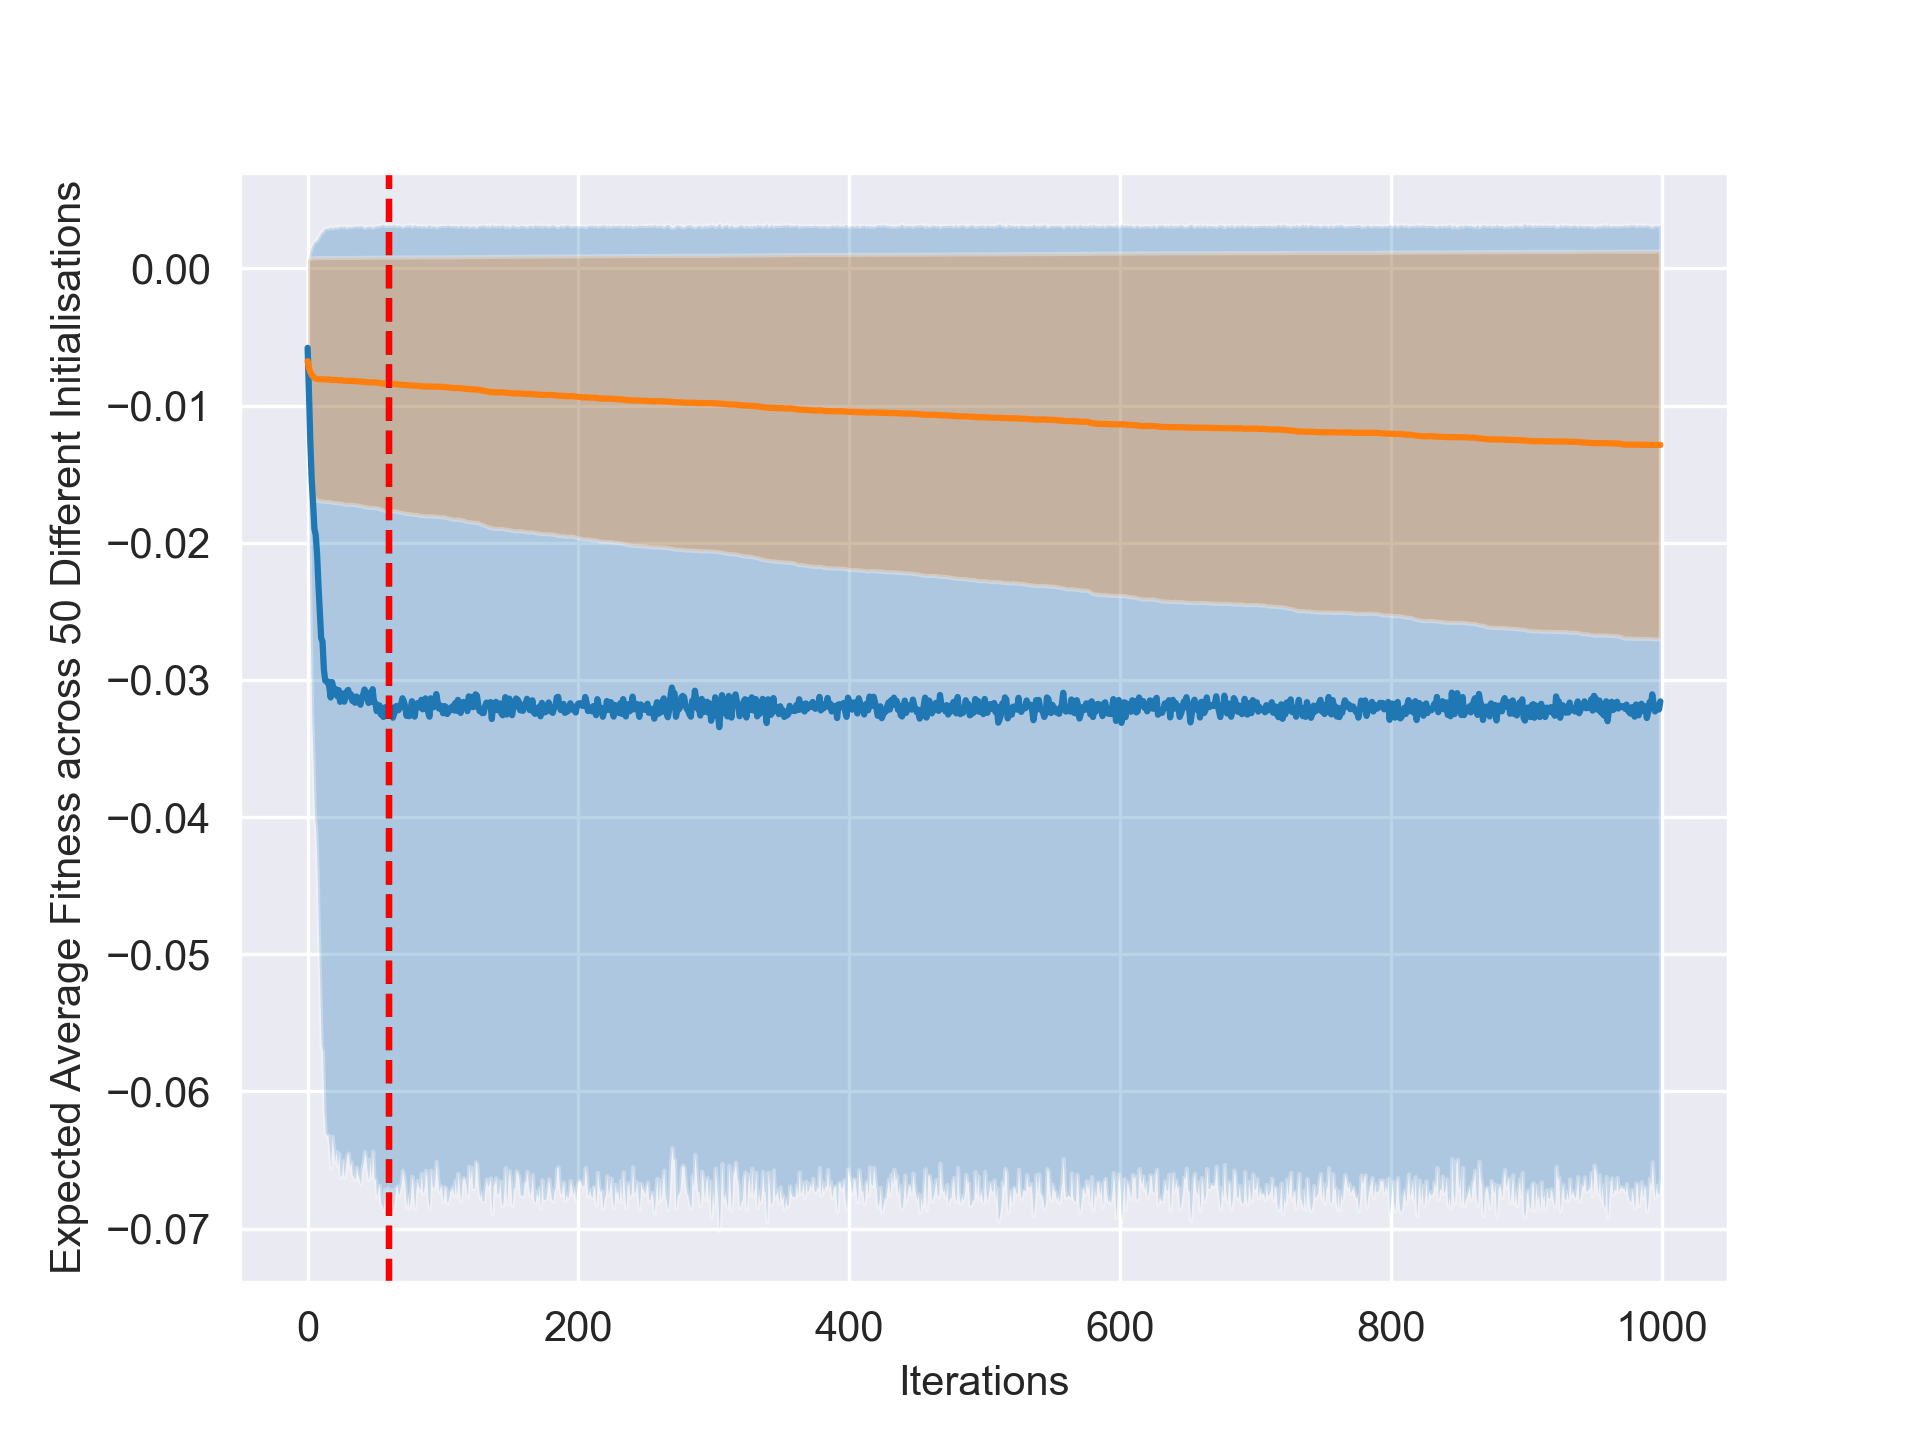
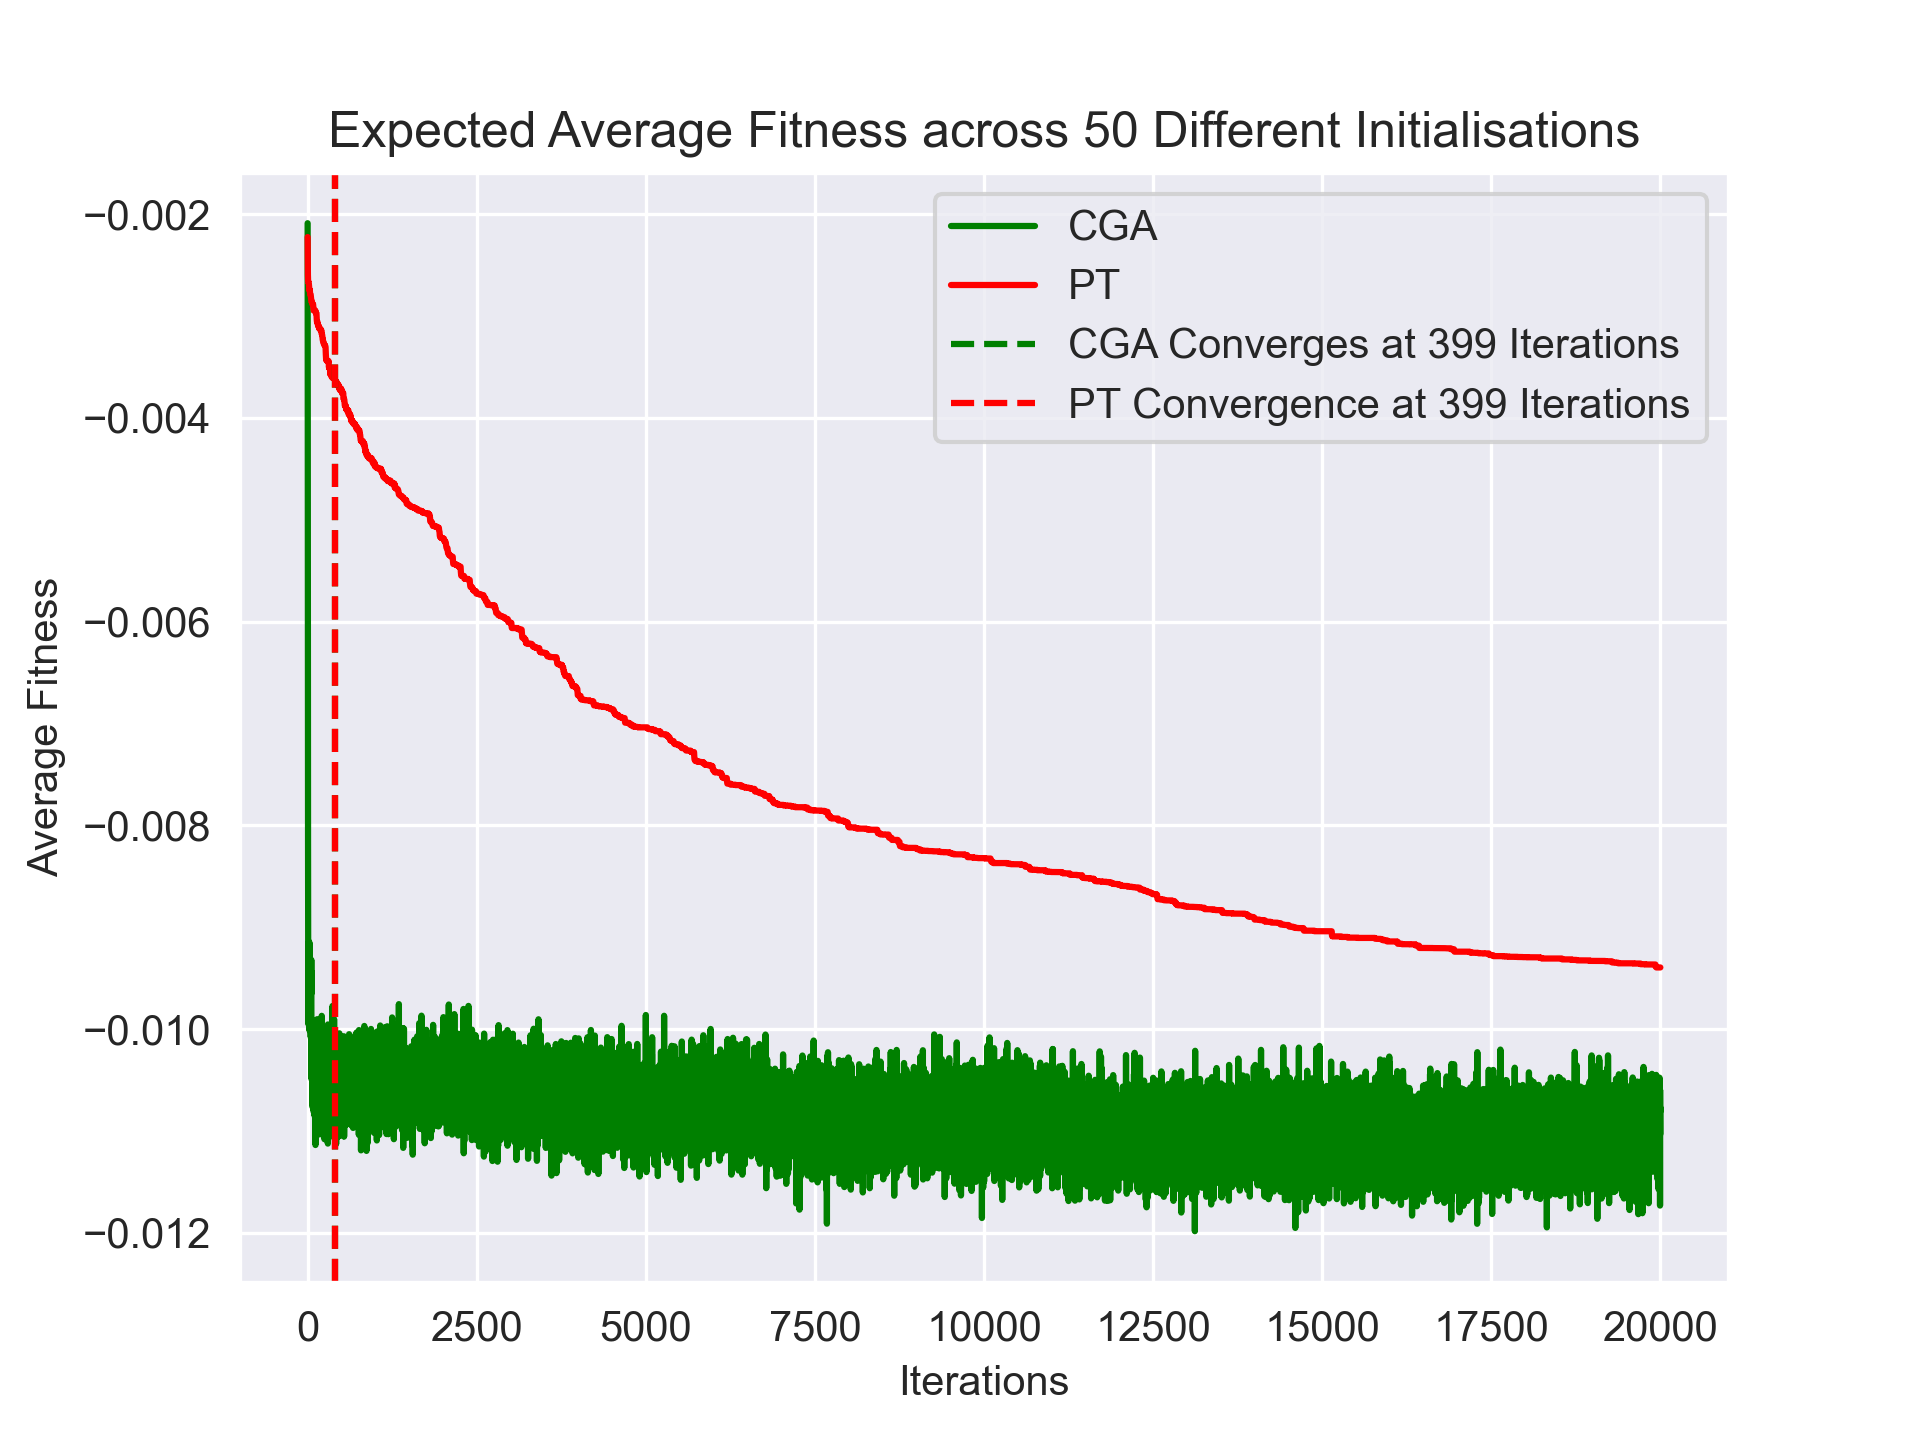
Ready to run experiments overnight

diff --git a/FinalComparison.py b/FinalComparison.py
@@ -8,20 +8,18 @@ import numpy as np
 import matplotlib.pyplot as plt
 import seaborn as sns
 from time import time
+import pandas as pd
 
 # Generate initial solutions for both functions. 
 # No solution has a function value > 0.3, (away from global optimum)
 initial_pop_list, seeds = generate_initial(x_dim=8, pop_size=250)
-print(seeds) # These are the random seeds used to generate the initial populations
 
-# Convergence criteria
-epsilon = 0.05
+MAX_NUM_ITERS = 25000
 
 ### CGA Gather Results ###
-CGA_AvgFit_ALL = np.zeros((50, 1000))
-CGA_MinFit_ALL = np.zeros((50, 1000))
+CGA_AvgFit_ALL = np.zeros((50, MAX_NUM_ITERS))
+CGA_MinFit_ALL = np.zeros((50, MAX_NUM_ITERS))
 CGA_times_ALL = np.zeros(50)
-CGA_i_ALL = np.zeros(50)
 
 for run_iter, initialisation in enumerate(initial_pop_list):
     
@@ -42,12 +40,12 @@ for run_iter, initialisation in enumerate(initial_pop_list):
     CGA.population = initialisation
 
     # Initialise arrays for storing fitness
-    avg_fitness = np.zeros(1000)
-    min_fitness = np.zeros(1000)
+    avg_fitness = np.zeros(MAX_NUM_ITERS)
+    min_fitness = np.zeros(MAX_NUM_ITERS)
 
-    # Max number of iterations = 1000
+    # Max number of iterations = MAX_NUM_ITERS
     CGA_tic = time()
-    for i in range(1000):
+    for i in range(MAX_NUM_ITERS):
         
         # Evolve population
         CGA.evolve()
@@ -56,21 +54,18 @@ for run_iter, initialisation in enumerate(initial_pop_list):
         avg_fitness[i] = np.mean(CGA.fitness)
         min_fitness[i] = CGA.min_fitness
 
-        # Check for convergence based on difference in avg fitness
-        if abs(avg_fitness[i] - avg_fitness[i-1]) < epsilon:
-            CGA_toc = time()
-            CGA_times_ALL[run_iter] = CGA_toc - CGA_tic
-            CGA_i_ALL[run_iter] = i
+    # Time taken to run algorithm
+    CGA_toc = time()
+    CGA_times_ALL[run_iter] = CGA_toc - CGA_tic
     
     # Update arrays
     CGA_AvgFit_ALL[run_iter, :] = avg_fitness
     CGA_MinFit_ALL[run_iter, :] = min_fitness
 
 ### PT Gather Results ###
-PT_AvgFit_ALL = np.zeros((50, 1000))
-PT_MinFit_ALL = np.zeros((50, 1000))
+PT_AvgFit_ALL = np.zeros((50, MAX_NUM_ITERS))
+PT_MinFit_ALL = np.zeros((50, MAX_NUM_ITERS))
 PT_times_ALL = np.zeros(50)
-PT_i_ALL = np.zeros(50)
 
 for run_iter, initialisation in enumerate(initial_pop_list):
 
@@ -92,12 +87,12 @@ for run_iter, initialisation in enumerate(initial_pop_list):
     PT.current_solutions = initialisation
 
     # Initialise arrays for storing fitness
-    avg_fitness = np.zeros(1000)
-    min_fitness = np.zeros(1000)
+    avg_fitness = np.zeros(MAX_NUM_ITERS)
+    min_fitness = np.zeros(MAX_NUM_ITERS)
 
-    # Max number of iterations = 1000
+    # Max number of iterations = MAX_NUM_ITERS
     PT_tic = time()
-    for i in range(1000):
+    for i in range(MAX_NUM_ITERS):
         
         # Algorithm update
         PT.update_chains()
@@ -106,49 +101,66 @@ for run_iter, initialisation in enumerate(initial_pop_list):
         # Update fitness arrays
         avg_fitness[i], min_fitness[i] = PT.get_fitness()
 
-        # Check for convergence based on difference in avg fitness
-        if abs(avg_fitness[i] - avg_fitness[i-1]) < epsilon:
-            PT_toc = time()
-            PT_times_ALL[run_iter] = PT_toc - PT_tic
-            PT_i_ALL[run_iter] = i
+    # Time taken to run algorithm
+    PT_toc = time()
+    PT_times_ALL[run_iter] = PT_toc - PT_tic
 
     # Update arrays
     PT_AvgFit_ALL[run_iter, :] = avg_fitness
     PT_MinFit_ALL[run_iter, :] = min_fitness
 
-# Plot expected average fitness values for CGA and PT with error bars
-CGA_AvgFit = np.mean(CGA_AvgFit_ALL, axis=0)
-CGA_convergerce_i = np.mean(CGA_i_ALL)
-PT_AvgFit = np.mean(PT_AvgFit_ALL, axis=0)
-PT_convergerce_i = np.mean(PT_i_ALL)
+# Find the expectation of the average and min fitness across all 50 initialisations
+CGA_AvgFit_mean = np.mean(CGA_AvgFit_ALL, axis=0)
+PT_AvgFit_mean = np.mean(PT_AvgFit_ALL, axis=0)
+CGA_MinFit_mean = np.mean(CGA_MinFit_ALL, axis=0)
+PT_MinFit_mean = np.mean(PT_MinFit_ALL, axis=0)
 
+# Find the iteration at which CGA and PT converge (when the final min fitness is first reached by the min fitness)
+CGA_Avg_i = np.where(CGA_AvgFit_mean == np.min(CGA_AvgFit_mean))[0][0]
+PT_Avg_i = np.where(PT_AvgFit_mean == np.min(PT_AvgFit_mean))[0][0]
+
+# Plot expected average fitness values for CGA and PT
 plt.figure()
 sns.set_style('darkgrid')
-plt.plot(CGA_AvgFit, label=f'CGA, Final = {CGA_AvgFit[-1]:.3f}')
-plt.axvline(CGA_convergerce_i, color='black', linestyle='--', label=f'CGA Convergence at {CGA_convergerce_i} iterations')
-plt.plot(PT_AvgFit, label='PT, Final = {PT_AvgFit[-1]:.3f}')
-plt.fill_between(np.arange(1000), PT_AvgFit-PT_AvgFit_CI, PT_AvgFit+PT_AvgFit_CI, alpha=0.3)
-plt.axvline(PT_convergerce_i, color='red', linestyle='--', label=f'PT Convergence at {PT_convergerce_i} iterations')
+plt.plot(CGA_AvgFit_mean, label='CGA', color='green')
+plt.plot(PT_AvgFit_mean, label='PT', color='red')
+plt.axvline(CGA_Avg_i, color='green', linestyle='--', label=f'CGA Converges at {int(CGA_Avg_i)} Iterations')
+plt.axvline(PT_Avg_i, color='red', linestyle='--', label=f'PT Convergence at {int(PT_Avg_i)} Iterations')
 plt.xlabel('Iterations')
-plt.ylabel('Fitness')
+plt.ylabel('Average Fitness')
 plt.title('Expected Average Fitness across 50 Different Initialisations')
+plt.legend()
 plt.savefig('figures/Final Comparison/CGA vs PT Average Fitness.png', dpi=300)
 
-# Plot expected minimum fitness values for CGA and PT with 95% confidence intervals
-CGA_MinFit = np.mean(CGA_MinFit_ALL, axis=0)
-CGA_MinFit_CI = 1.96 * np.std(CGA_MinFit_ALL, axis=0) / np.sqrt(50)
-PT_MinFit = np.mean(PT_MinFit_ALL, axis=0)
-PT_MinFit_CI = 1.96 * np.std(PT_MinFit_ALL, axis=0) / np.sqrt(50)
-
+# Plot expercted min fitness values for CGA and PT 
 plt.figure()
 sns.set_style('darkgrid')
-plt.plot(CGA_MinFit, label=f'CGA, Final = {CGA_MinFit[-1]:.3f}')
-plt.fill_between(np.arange(1000), CGA_MinFit-CGA_MinFit_CI, CGA_MinFit+CGA_MinFit_CI, alpha=0.3)
-plt.plot(PT_MinFit, label='PT, Final = {PT_MinFit[-1]:.3f}')
-plt.fill_between(np.arange(1000), PT_MinFit-PT_MinFit_CI, PT_MinFit+PT_MinFit_CI, alpha=0.3)
+plt.plot(CGA_MinFit_mean, label='CGA', color='green')
+plt.plot(PT_MinFit_mean, label='PT', color='red')
 plt.xlabel('Iterations')
-plt.ylabel('Fitness')
+plt.ylabel('Minimum Fitness')
 plt.title('Expected Minimum Fitness across 50 Different Initialisations')
+plt.legend()
 plt.savefig('figures/Final Comparison/CGA vs PT Minimum Fitness.png', dpi=300)
 
+# Save final results to csv
+CGA_final_avg = CGA_AvgFit_mean[-1]
+CGA_final_std = np.std(CGA_AvgFit_ALL[:, -1])
+CGA_final_min = CGA_MinFit_mean[-1]
+CGA_final_min_std = np.std(CGA_MinFit_ALL[:, -1])
+CGA_final_time = np.mean(CGA_times_ALL)
+CGA_final_time_std = np.std(CGA_times_ALL)
 
+PT_final_avg = PT_AvgFit_mean[-1]
+PT_final_std = np.std(PT_AvgFit_ALL[:, -1])
+PT_final_min = PT_MinFit_mean[-1]
+PT_final_min_std = np.std(PT_MinFit_ALL[:, -1])
+PT_final_time = np.mean(PT_times_ALL)
+PT_final_time_std = np.std(PT_times_ALL)
+
+data = {'CGA': [CGA_final_avg, CGA_final_std, CGA_final_min, CGA_final_min_std, CGA_final_time, CGA_final_time_std, CGA_Avg_i],
+        'PT': [PT_final_avg, PT_final_std, PT_final_min, PT_final_min_std, PT_final_time, PT_final_time_std, PT_Avg_i]}
+df = pd.DataFrame(data, index=['Average Fitness', 'Average Fitness Std', 'Minimum Fitness', 'Minimum Fitness Std', 'Total Time Taken', 'Time Taken Std', 'Iterations to Convergence'])
+df.to_csv('figures/Final Comparison/CGA vs PT Final Results.csv')
+
+print(seeds) # These are the random seeds used to generate the initial populations

diff --git a/src/utils/helper_functions.py b/src/utils/helper_functions.py
@@ -135,7 +135,7 @@ def generate_initial(x_dim=8, pop_size=250):
 
     # Generate 50 initialisations
     i = 0
-    while i < 3:
+    while i < 1:
         # Generate a random number seed
         seed = np.random.randint(0, 1000000)
 
